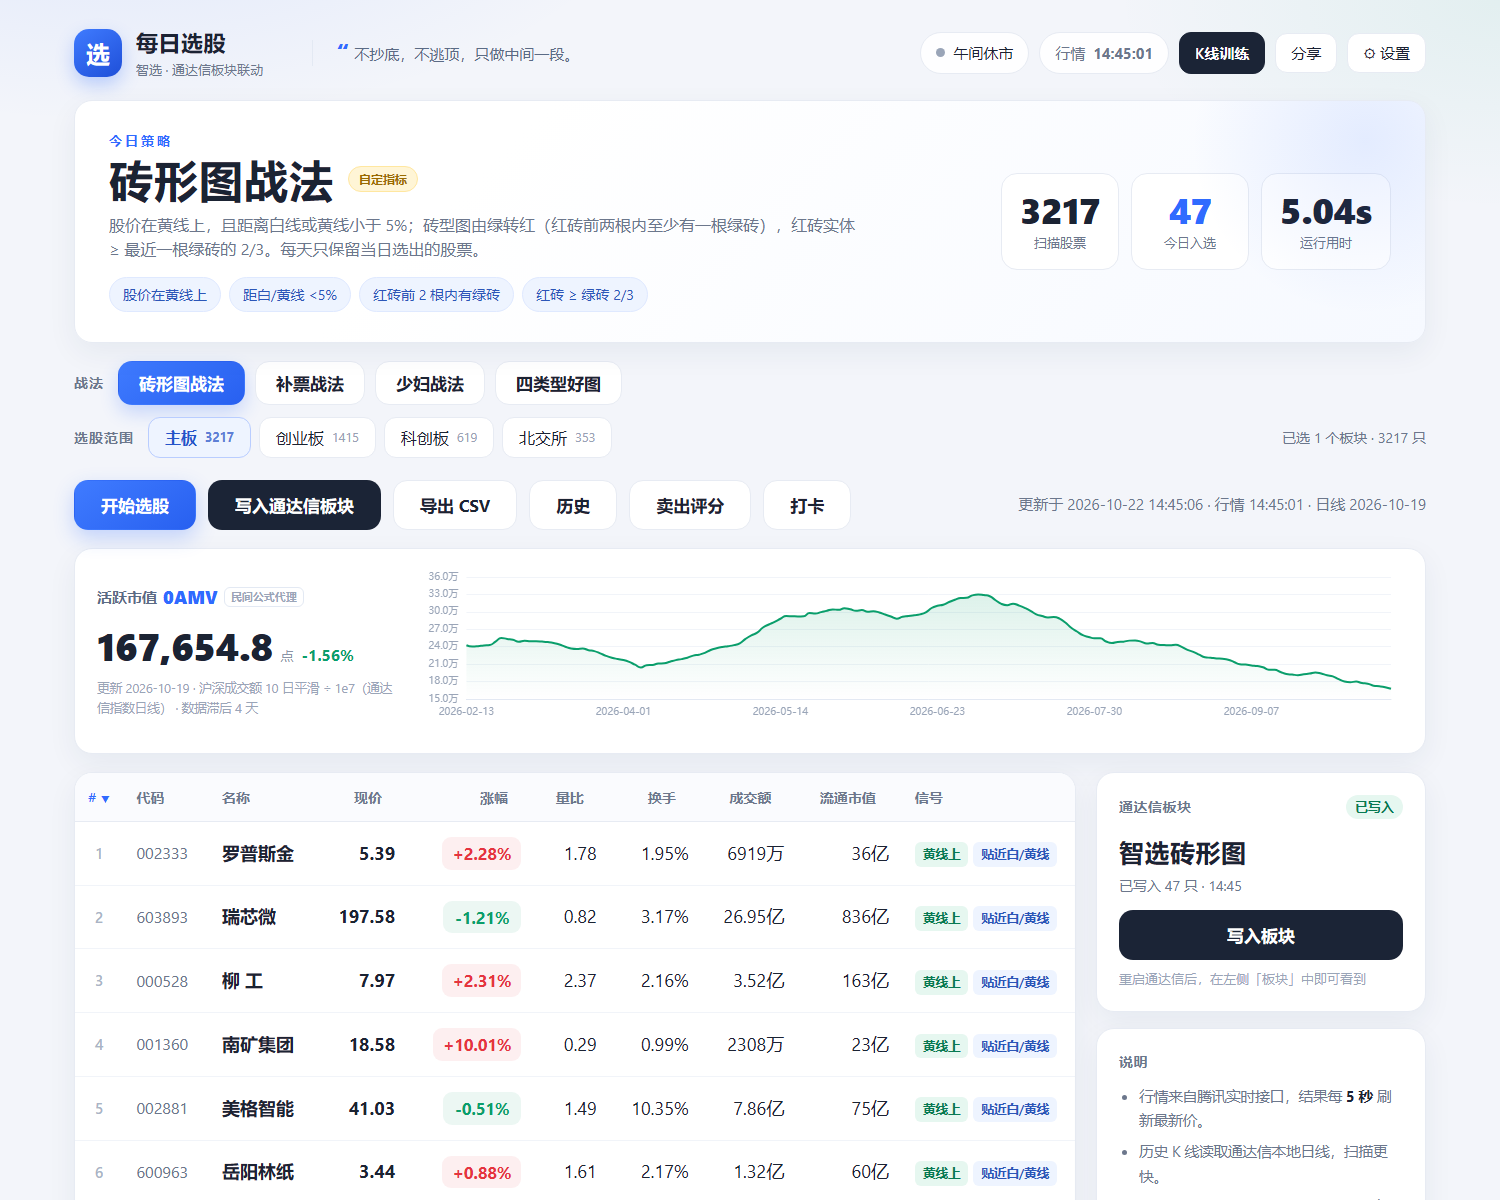
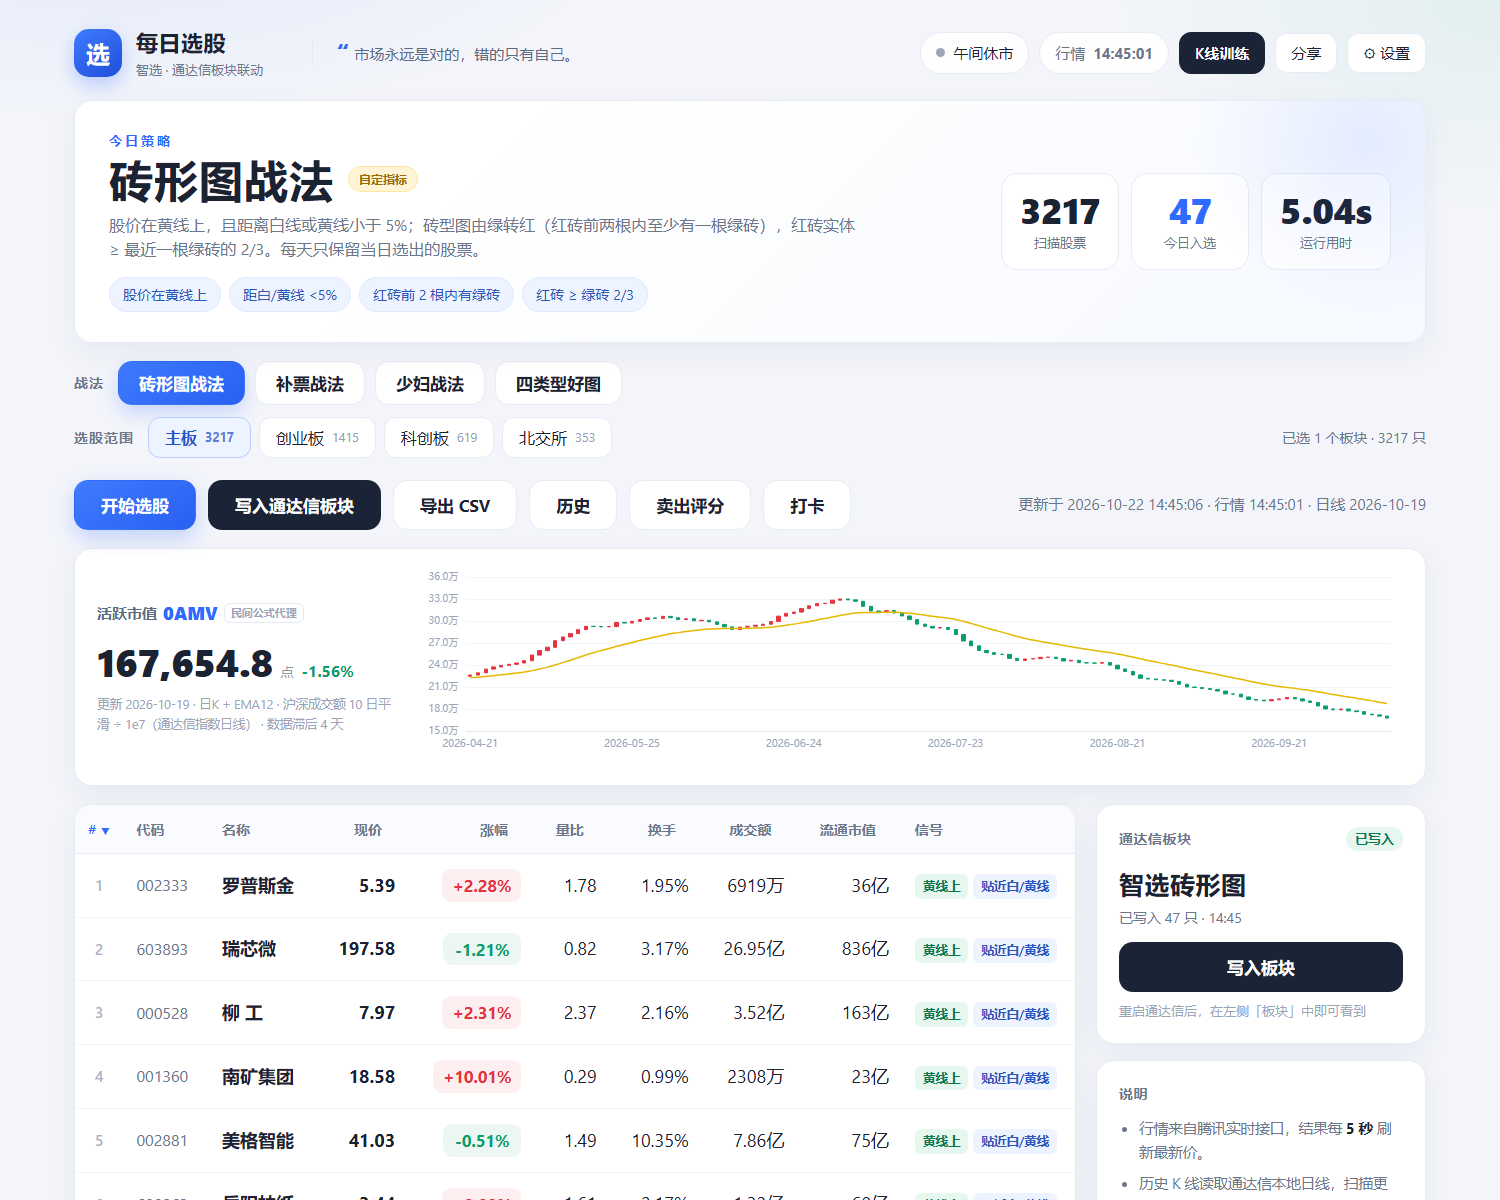
feat: 活跃市值改为日K并加EMA12平滑线

diff --git a/web/app.js b/web/app.js
@@ -1476,7 +1476,7 @@
 
   async function loadAmv() {
     try {
-      const d = await api("/api/amv?days=160");
+      const d = await api("/api/amv?days=120");
       if (!d.ok) {
         $("amvCard").hidden = false;
         $("amvSub").textContent = d.error || "暂无数据";
@@ -1492,15 +1492,15 @@
     const chg = $("amvChg");
     chg.textContent = (d.chg >= 0 ? "+" : "") + Number(d.chg).toFixed(2) + "%";
     chg.className = "amv-chg " + (d.chg >= 0 ? "up" : "down");
-    let sub = "更新 " + d.last_date + " · 沪深成交额 10 日平滑 ÷ 1e7（通达信指数日线）";
+    let sub = "更新 " + d.last_date + " · 日K + EMA12 · 沪深成交额 10 日平滑 ÷ 1e7（通达信指数日线）";
     if (d.stale_days > 1) sub += " · 数据滞后 " + d.stale_days + " 天";
     $("amvSub").textContent = sub;
 
-    const color = d.chg >= 0 ? "#e5343f" : "#0a9e6b";
     if (amvChart) { amvChart.dispose(); amvChart = null; }
     amvChart = echarts.init($("amvChart"));
     const dates = (d.series || []).map((x) => x.date);
-    const values = (d.series || []).map((x) => x.value);
+    const ohlc = (d.series || []).map((x) => [x.open, x.value, x.low, x.high]);
+    const fmt = (v) => Number(v).toLocaleString("zh-CN", { maximumFractionDigits: 1 });
     amvChart.setOption({
       animation: false,
       grid: { left: 8, right: 12, top: 10, bottom: 18, containLabel: true },
@@ -1508,10 +1508,14 @@
         trigger: "axis",
         backgroundColor: "rgba(27,36,54,.92)", borderWidth: 0,
         textStyle: { color: "#fff", fontSize: 12 },
-        formatter: (ps) => ps[0].axisValue + "<br/>0AMV " + Number(ps[0].data).toLocaleString("zh-CN"),
+        formatter: (ps) => {
+          const v = ps[0].data;
+          return ps[0].axisValue + "<br/>开 " + fmt(v[0]) + "<br/>收 " + fmt(v[1]) +
+            "<br/>高 " + fmt(v[3]) + "<br/>低 " + fmt(v[2]);
+        },
       },
       xAxis: {
-        type: "category", data: dates, boundaryGap: false,
+        type: "category", data: dates, boundaryGap: true,
         axisLabel: { fontSize: 10, color: "#9aa5b8", interval: Math.max(1, Math.floor(dates.length / 6)) },
         axisTick: { show: false }, axisLine: { lineStyle: { color: "#e3e9f3" } },
       },
@@ -1524,14 +1528,15 @@
         },
       },
       series: [{
-        name: "0AMV", type: "line", data: values, showSymbol: false, smooth: true,
-        lineStyle: { width: 2, color },
-        areaStyle: {
-          color: {
-            type: "linear", x: 0, y: 0, x2: 0, y2: 1,
-            colorStops: [{ offset: 0, color: color + "33" }, { offset: 1, color: color + "00" }],
-          },
+        name: "0AMV", type: "candlestick", data: ohlc, barMaxWidth: 6,
+        itemStyle: {
+          color: "#e5343f", color0: "#0a9e6b",
+          borderColor: "#e5343f", borderColor0: "#0a9e6b",
         },
+      }, {
+        name: "EMA12", type: "line", data: (d.series || []).map((x) => x.ema),
+        showSymbol: false, smooth: true, z: 3,
+        lineStyle: { width: 1.5, color: "#e6b800" },
       }],
     });
   }
@@ -1616,3 +1621,4 @@
 
   init();
 })();
+

diff --git a/web/style.css b/web/style.css
@@ -1,4 +1,4 @@
-/* ===== 每日选股 · 简洁大字号界面 ===== */
+/* ===== 每日选股 · 简洁大字号界面 ===== */
 :root {
   --bg: #f3f5fa;
   --card: #ffffff;
@@ -905,7 +905,7 @@ tbody tr.clickable:hover { background: #f7faff; }
 /* ---------- 0AMV active market value ---------- */
 .amv-card {
   display: flex; gap: 24px; align-items: stretch;
-  padding: 18px 22px; margin: 0 0 18px; min-height: 168px;
+  padding: 18px 22px; margin: 0 0 18px; min-height: 200px;
 }
 .amv-left { flex: 0 0 300px; display: flex; flex-direction: column; justify-content: center; min-width: 0; }
 .amv-title { font-size: 15px; font-weight: 700; color: #5b6b85; display: flex; align-items: center; gap: 6px; flex-wrap: wrap; }
@@ -921,10 +921,12 @@ tbody tr.clickable:hover { background: #f7faff; }
 .amv-chg.up { color: #e5343f; }
 .amv-chg.down { color: #0a9e6b; }
 .amv-sub { font-size: 12.5px; color: #9aa5b8; line-height: 1.6; }
-.amv-chart { flex: 1; min-width: 0; height: 168px; }
+.amv-chart { flex: 1; min-width: 0; height: 200px; }
 @media (max-width: 760px) {
   .amv-card { flex-direction: column; gap: 10px; padding: 14px; }
   .amv-left { flex: auto; }
   .amv-value b { font-size: 30px; }
   .amv-chart { height: 150px; }
 }
+
+

diff --git a/core/amv.py b/core/amv.py
@@ -55,7 +55,15 @@ def compute(days=160):
     for i, item in enumerate(series):
         prev = series[i - 1]["value"] if i else item["value"]
         item["open"] = prev
+        item["high"] = max(prev, item["value"])
+        item["low"] = min(prev, item["value"])
         item["chg"] = round((item["value"] / prev - 1.0) * 100.0, 2) if prev else 0.0
+
+    # EMA12 平滑线（参考实现里的“平滑线”）
+    ema = None
+    for item in series:
+        ema = item["value"] if ema is None else ema * 11.0 / 12.0 + item["value"] / 12.0
+        item["ema"] = round(ema, 1)
 
     last = series[-1]
     stale_days = 0

diff --git a/README.md b/README.md
@@ -1,4 +1,4 @@
-# 每日选股 · 智选
+# 每日选股 · 智选
 
 ![界面预览](docs/screenshot.png)
 
@@ -442,9 +442,11 @@ python tools\sync_release.py --skip-shortcut
 
 ## 十四、活跃市值（0AMV）
 
-选股区中间新增「活跃市值 0AMV」卡片，显示当前值、日变化和最近 160 个交易日曲线。
+选股区中间新增「活跃市值 0AMV」卡片，显示当前值、日变化和最近 120 个交易日的日 K 线（红绿砖 + EMA12 平滑线）。
 
 - 公式：公开流传的民间 0AMV 口径 `SMA(沪深全市场成交额, 10, 1) / 1e7`
 - 成交额来源：通达信本地「上证指数 + 深证综指」日线的 amount 字段，不额外联网
 - 指南针未公开原版算法，本卡片是**代理指标**，形态接近但不保证与客户端数值完全一致
 - 通达信日线没更新时，卡片会提示「数据滞后 N 天」；更新通达信盘后数据即可刷新
+
+
